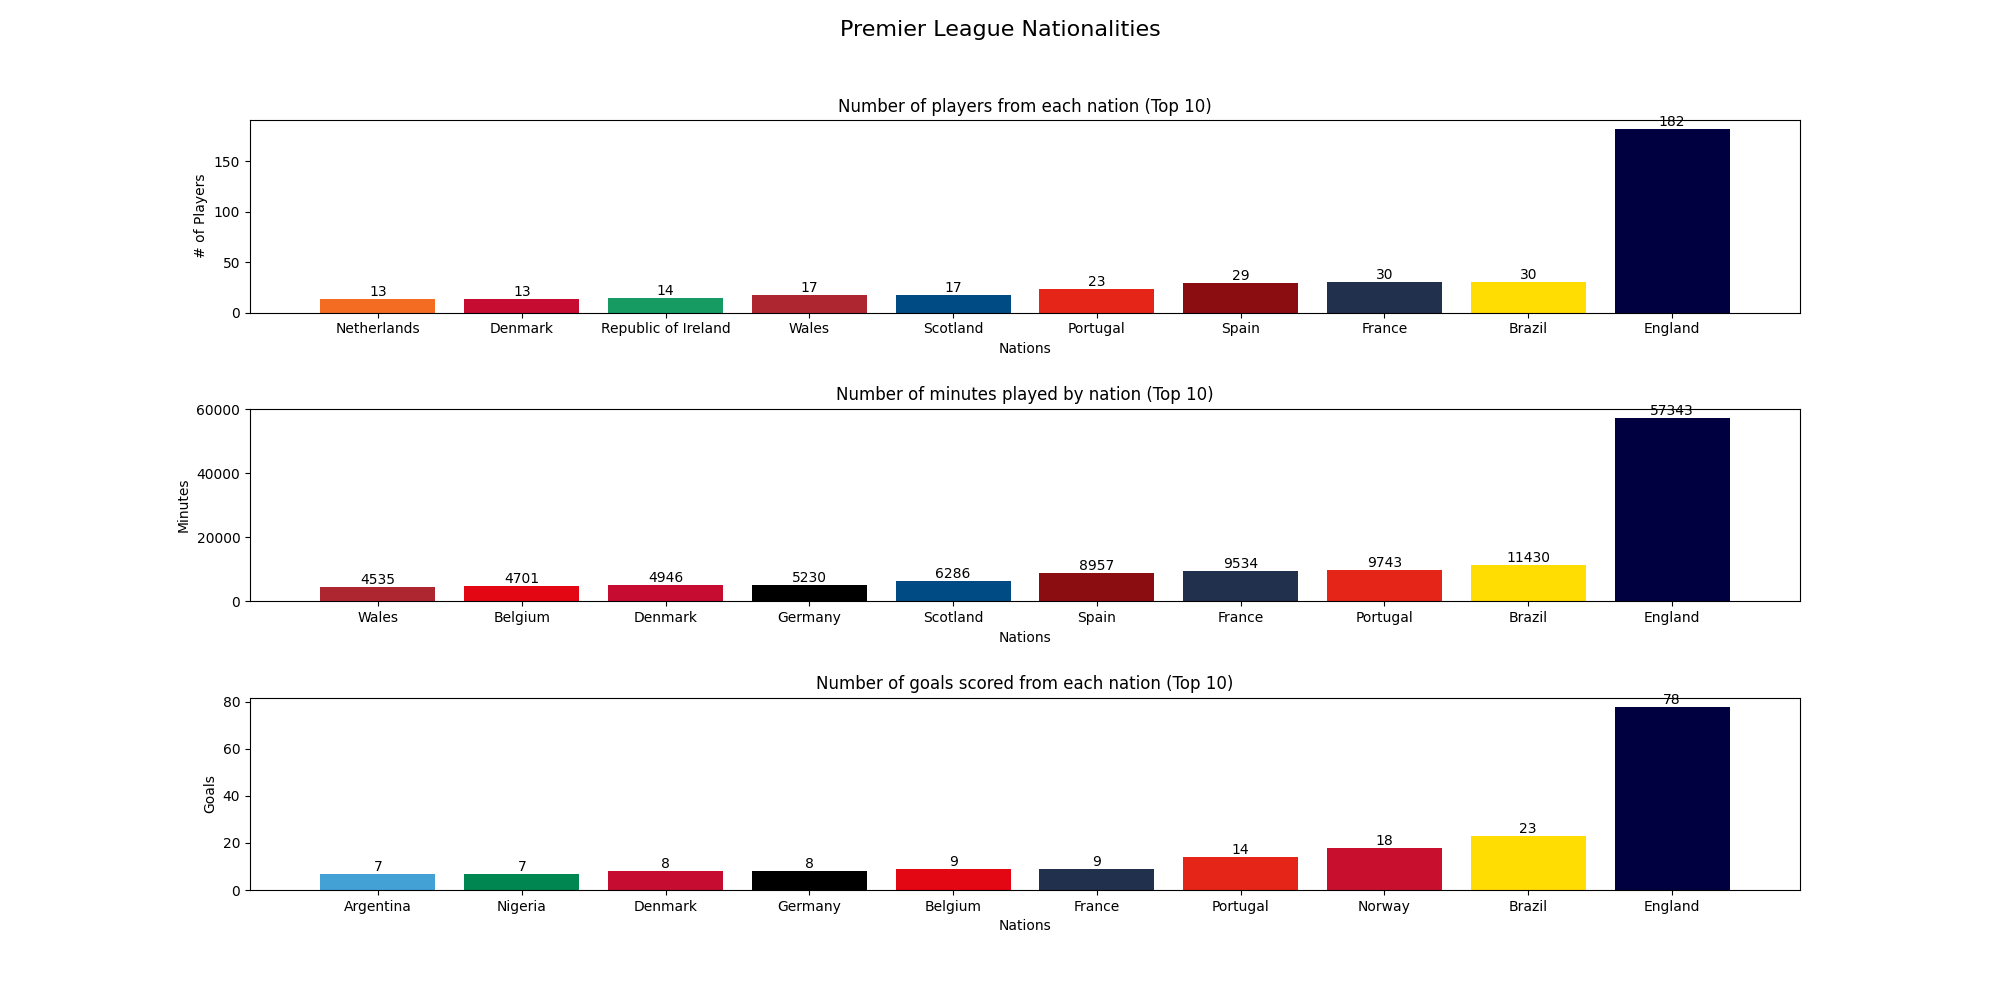
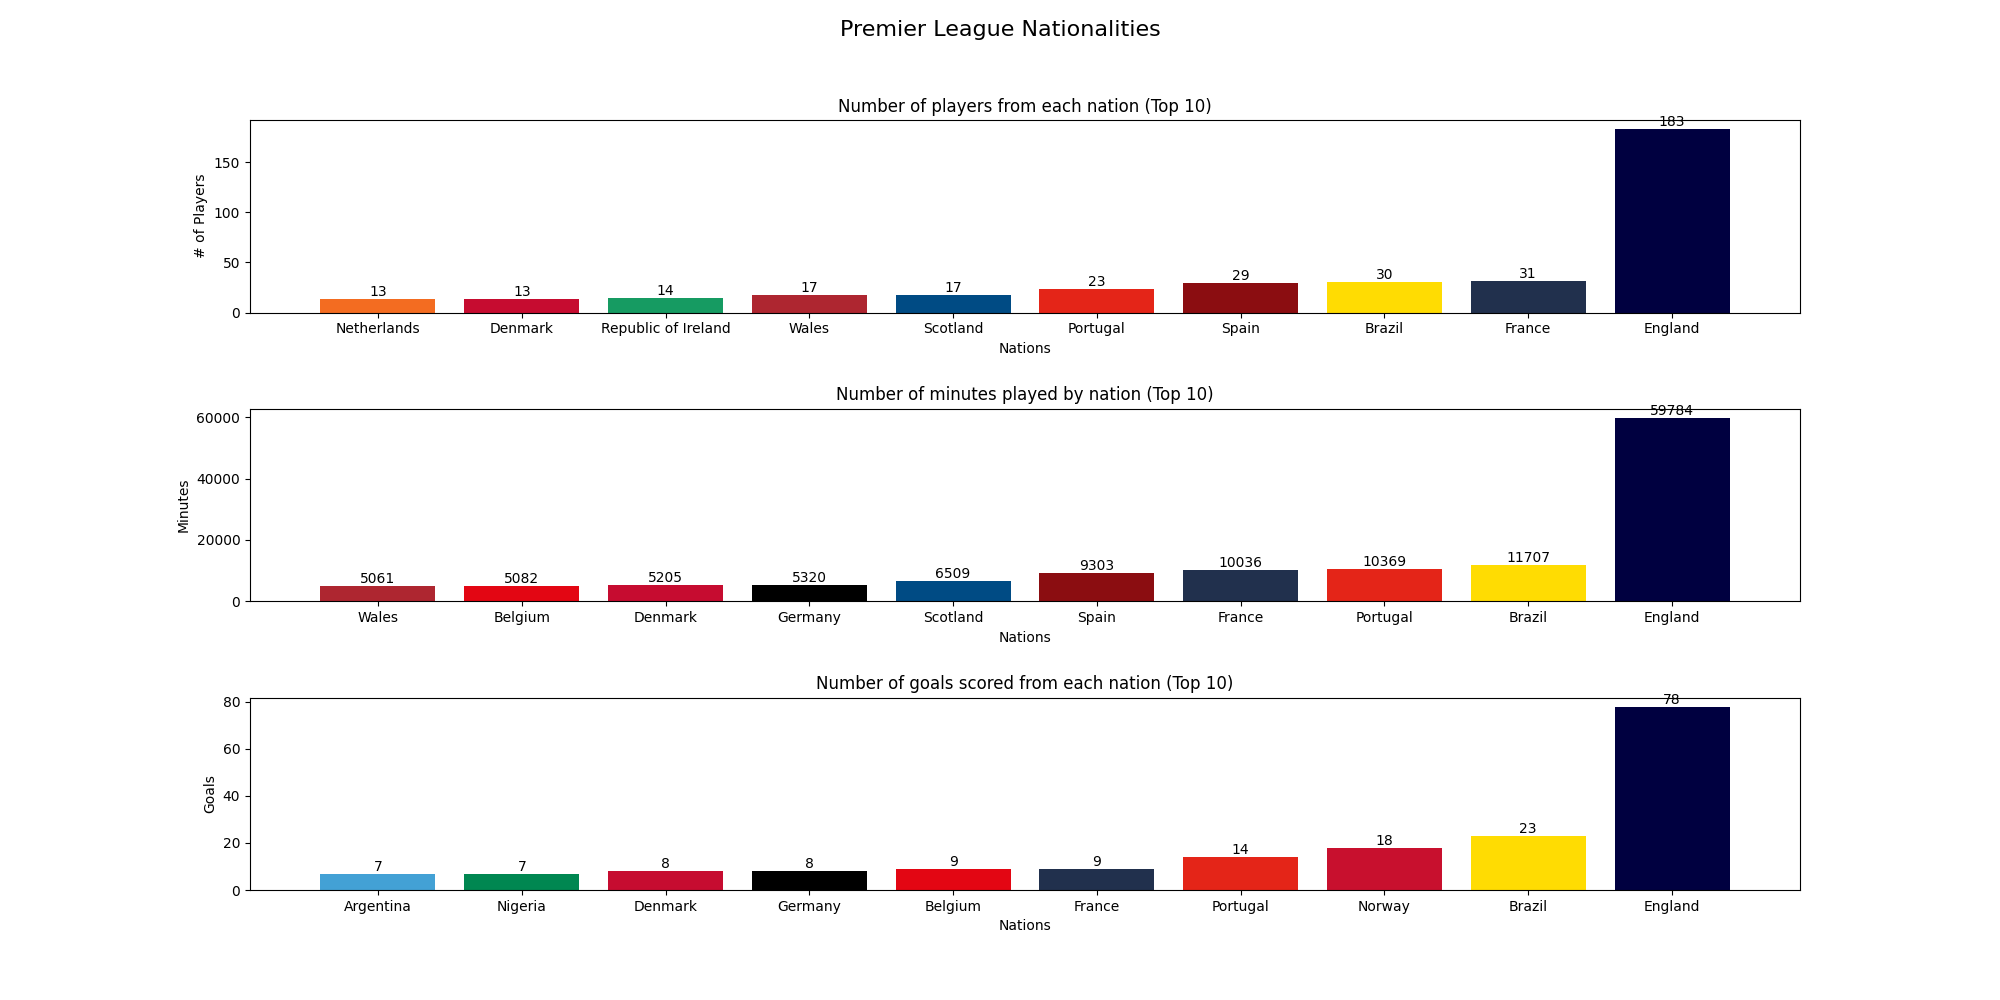
Fixed first combined chart

diff --git a/nationalities.py b/nationalities.py
@@ -68,7 +68,8 @@ def team_colours(col):
         "Albania": "#E41E20",
         "Côte d'Ivoire": "#FF8200",
         "Mali": "#FCD116",
-        "Cameroon": "#479A50"}
+        "Cameroon": "#479A50",
+        "Ghana": "#D40023"}
 
     clr = []
     for team in col:
@@ -114,7 +115,6 @@ def nations_played(urls):
     df_total_times = pd.DataFrame(columns=['Nation','Min'])
     df_total_players = pd.DataFrame(columns=['Nation','# Players'])
     df_total_goals = pd.DataFrame(columns=['Nation','Goals'])
-    print(df_total_players)
     df = pd.DataFrame()
     
     for url in urls:
@@ -211,10 +211,13 @@ def nations_played(urls):
         fig.savefig(f'images/{competition}-nations.png')
         # plt.show()
     
-    df_total_players = df_total_players.groupby('Nation').sum()
+    # print(df_total_players)
+    
+    df_total_players = df_total_players.groupby('Nation', as_index=False).sum()
     df_total_players = df_total_players.sort_values(by=["# Players"])
     # print(df_total_players)
     df_total_players = df_total_players.tail(10)
+    
     # Iterate on rows
 
     fig = plt.figure(figsize=(20, 10))
@@ -228,6 +231,7 @@ def nations_played(urls):
     ax0.set_title('Number of players from each nation (Top 10)')
     ax0.set_xlabel('Nations')
     ax0.set_ylabel('# of Players')
+    fig.savefig(f'images/combined-number-nations.png')
     plt.show()
 
 # Combined top 5 leagues
